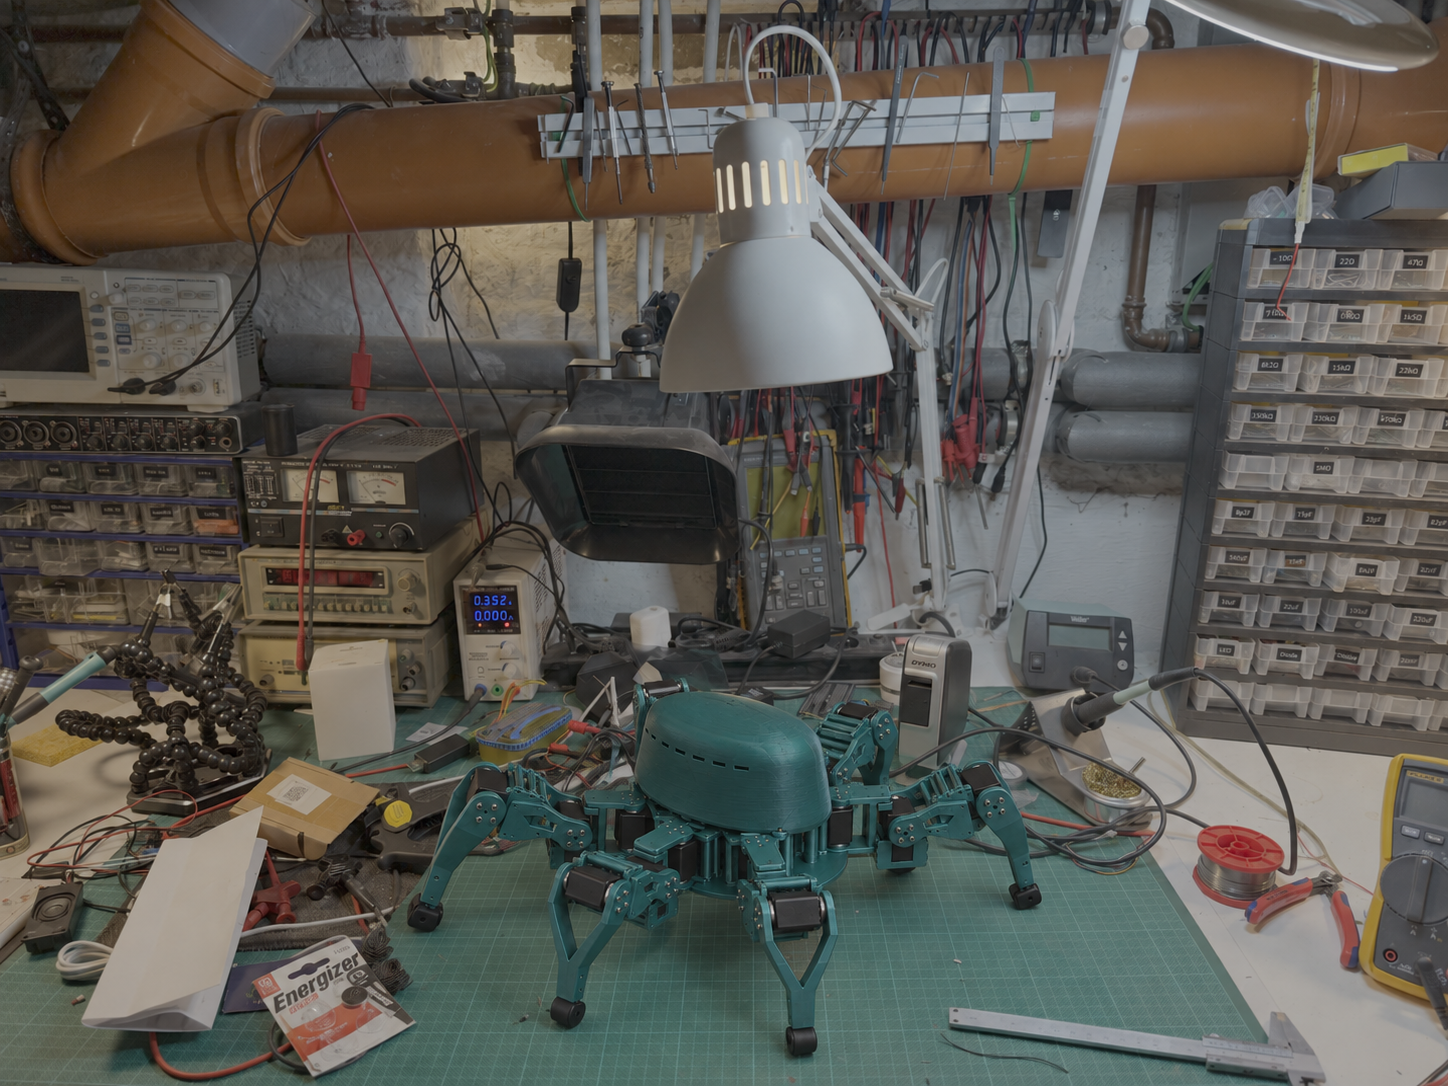
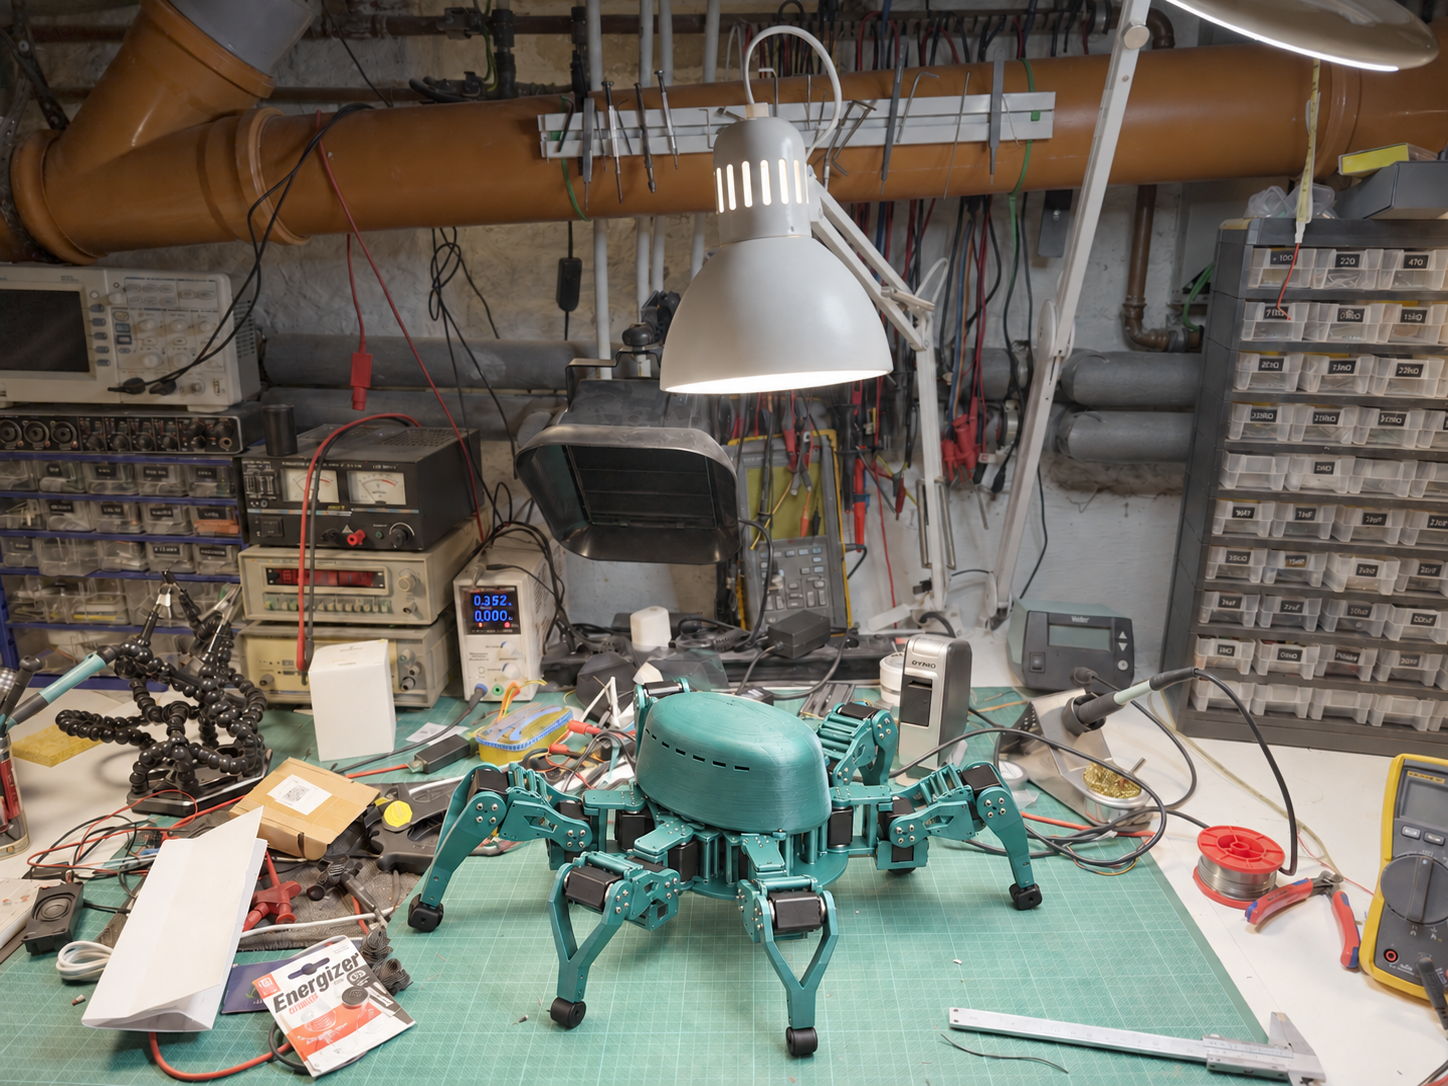
Brighten the workbench portrait and document setup on another computer

diff --git a/docs/another-computer.md b/docs/another-computer.md
@@ -1,0 +1,33 @@
+# Start on another computer
+
+The repository is private. Sign in to GitHub as an account with access, then clone it:
+
+```sh
+gh auth login
+gh repo clone Tom-Michiels/arachne-18
+cd arachne-18
+python3.12 -m venv .venv
+source .venv/bin/activate
+python -m pip install -r simulation/requirements.txt
+python simulation/validate.py
+python simulation/grounded_demo.py --headless --seconds 10
+```
+
+On Windows, activate with `.venv\Scripts\activate`. For an interactive viewer, run `python simulation/grounded_demo.py` on Linux/Windows or `mjpython simulation/grounded_demo.py` on macOS.
+
+Use `git pull` to retrieve later project updates. GitHub stores all required model assets directly; Git LFS and Onshape credentials are not required.
+
+## Training integration
+
+The package supplies a physical model and BAM actuator runner, not a trained locomotion policy. An RL training framework should wrap `simulation/simulate.py`'s `Robot` class:
+
+- Reset with `robot.reset()` at the beginning of each episode.
+- Supply 18 joint targets in radians, relative to CAD neutral, using the order in `joint_map.json`.
+- Call `robot.step(target)` for each 1 ms physics tick; for a 50 Hz policy, hold the action for 20 ticks.
+- Read joint angles and velocities using `robot.controller.qpos_indexes` and `robot.controller.dof_indexes`. Body orientation/velocity and contacts are available in `robot.data`.
+- Define the observation, reward, termination rules, action scaling and terrain in the training environment.
+- Run physics headlessly for training. No GPU renderer is needed unless observations include images.
+
+BAM currently runs through its Python/CPU MuJoCo integration. The provided model is not automatically compatible with MJX/JAX batched GPU training. Loading the XML through another simulator interface bypasses the BAM controller unless that integration is explicitly implemented.
+
+The 12 V actuator parameters are a datasheet-based approximation; use measured parameters and masses before transferring a learned policy to hardware. See [the BAM model notes](bam-model.md) and [the full simulation guide](simulation.md).

diff --git a/docs/media.md b/docs/media.md
@@ -49,3 +49,7 @@ python src/render_simulation.py
 ```
 
 The technical render scripts use the repository geometry directly. Regenerating a studio image from a prompt is stochastic and will not reproduce identical pixels.
+
+### Task-lamp lighting revision
+
+The final workbench image increases illumination from the existing desk lamps by about one to one-and-a-half photographic stops. Preserve the camera, room, clutter and robot; use broad neutral-white task light over the mat, a naturally bright lamp interior, readable dark servo details and gentle contact shadows. Keep the rear wall slightly darker. Do not add studio lights, haze, dramatic grading, gloss, or change the geometry. This lighting revision also used the built-in image-generation tool.

diff --git a/README.md b/README.md
@@ -50,6 +50,8 @@ The battery is restrained with two straps. The controller has its own removable 
 
 ## Simulate it
 
+Moving to a training computer? Start with the [clone and setup guide](docs/another-computer.md).
+
 Use Python 3.12. From the repository root:
 
 ```sh
